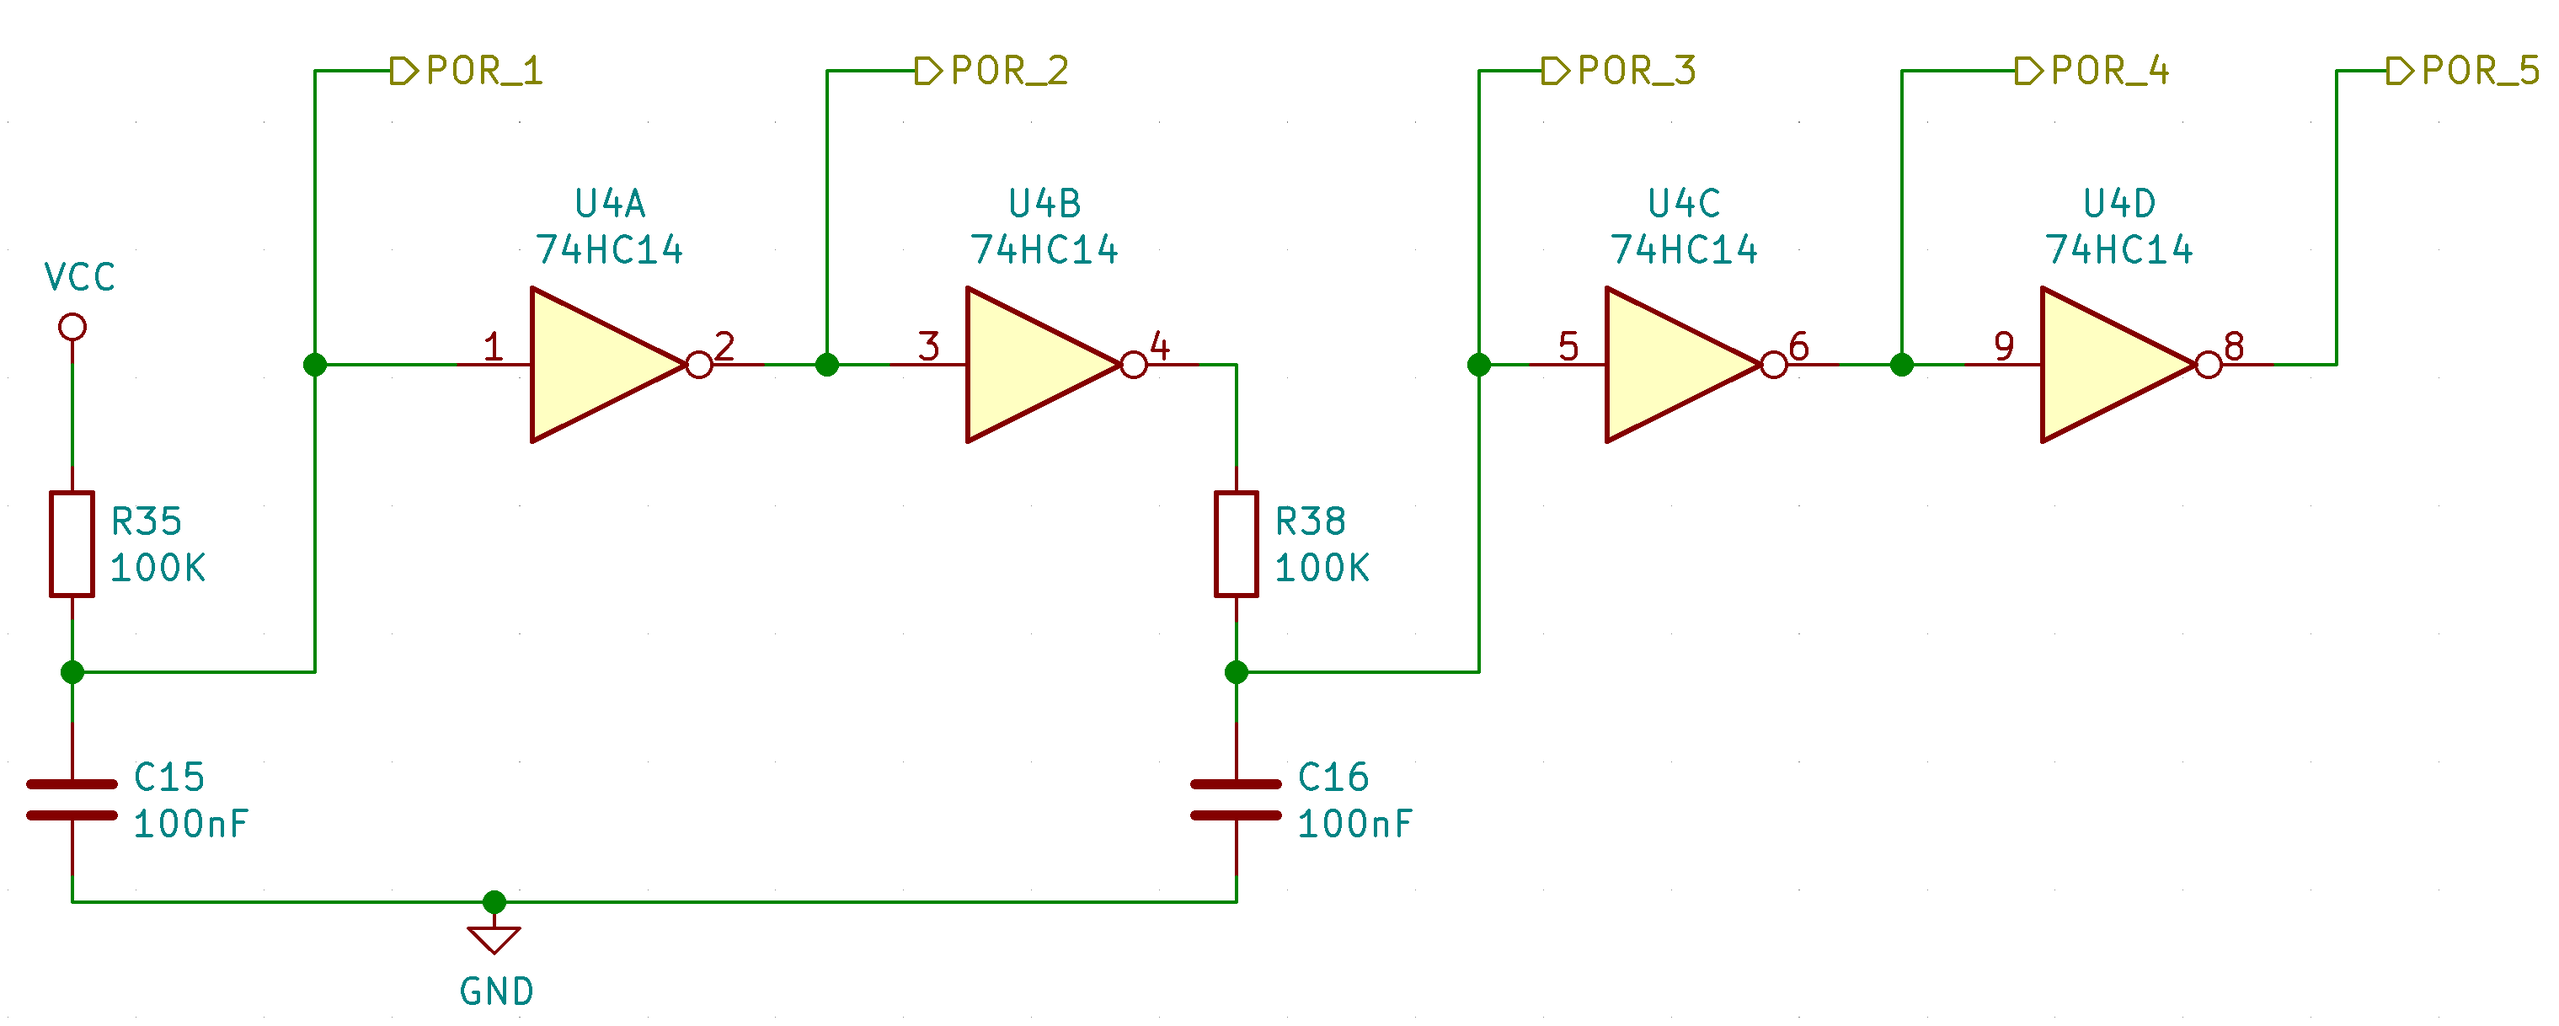
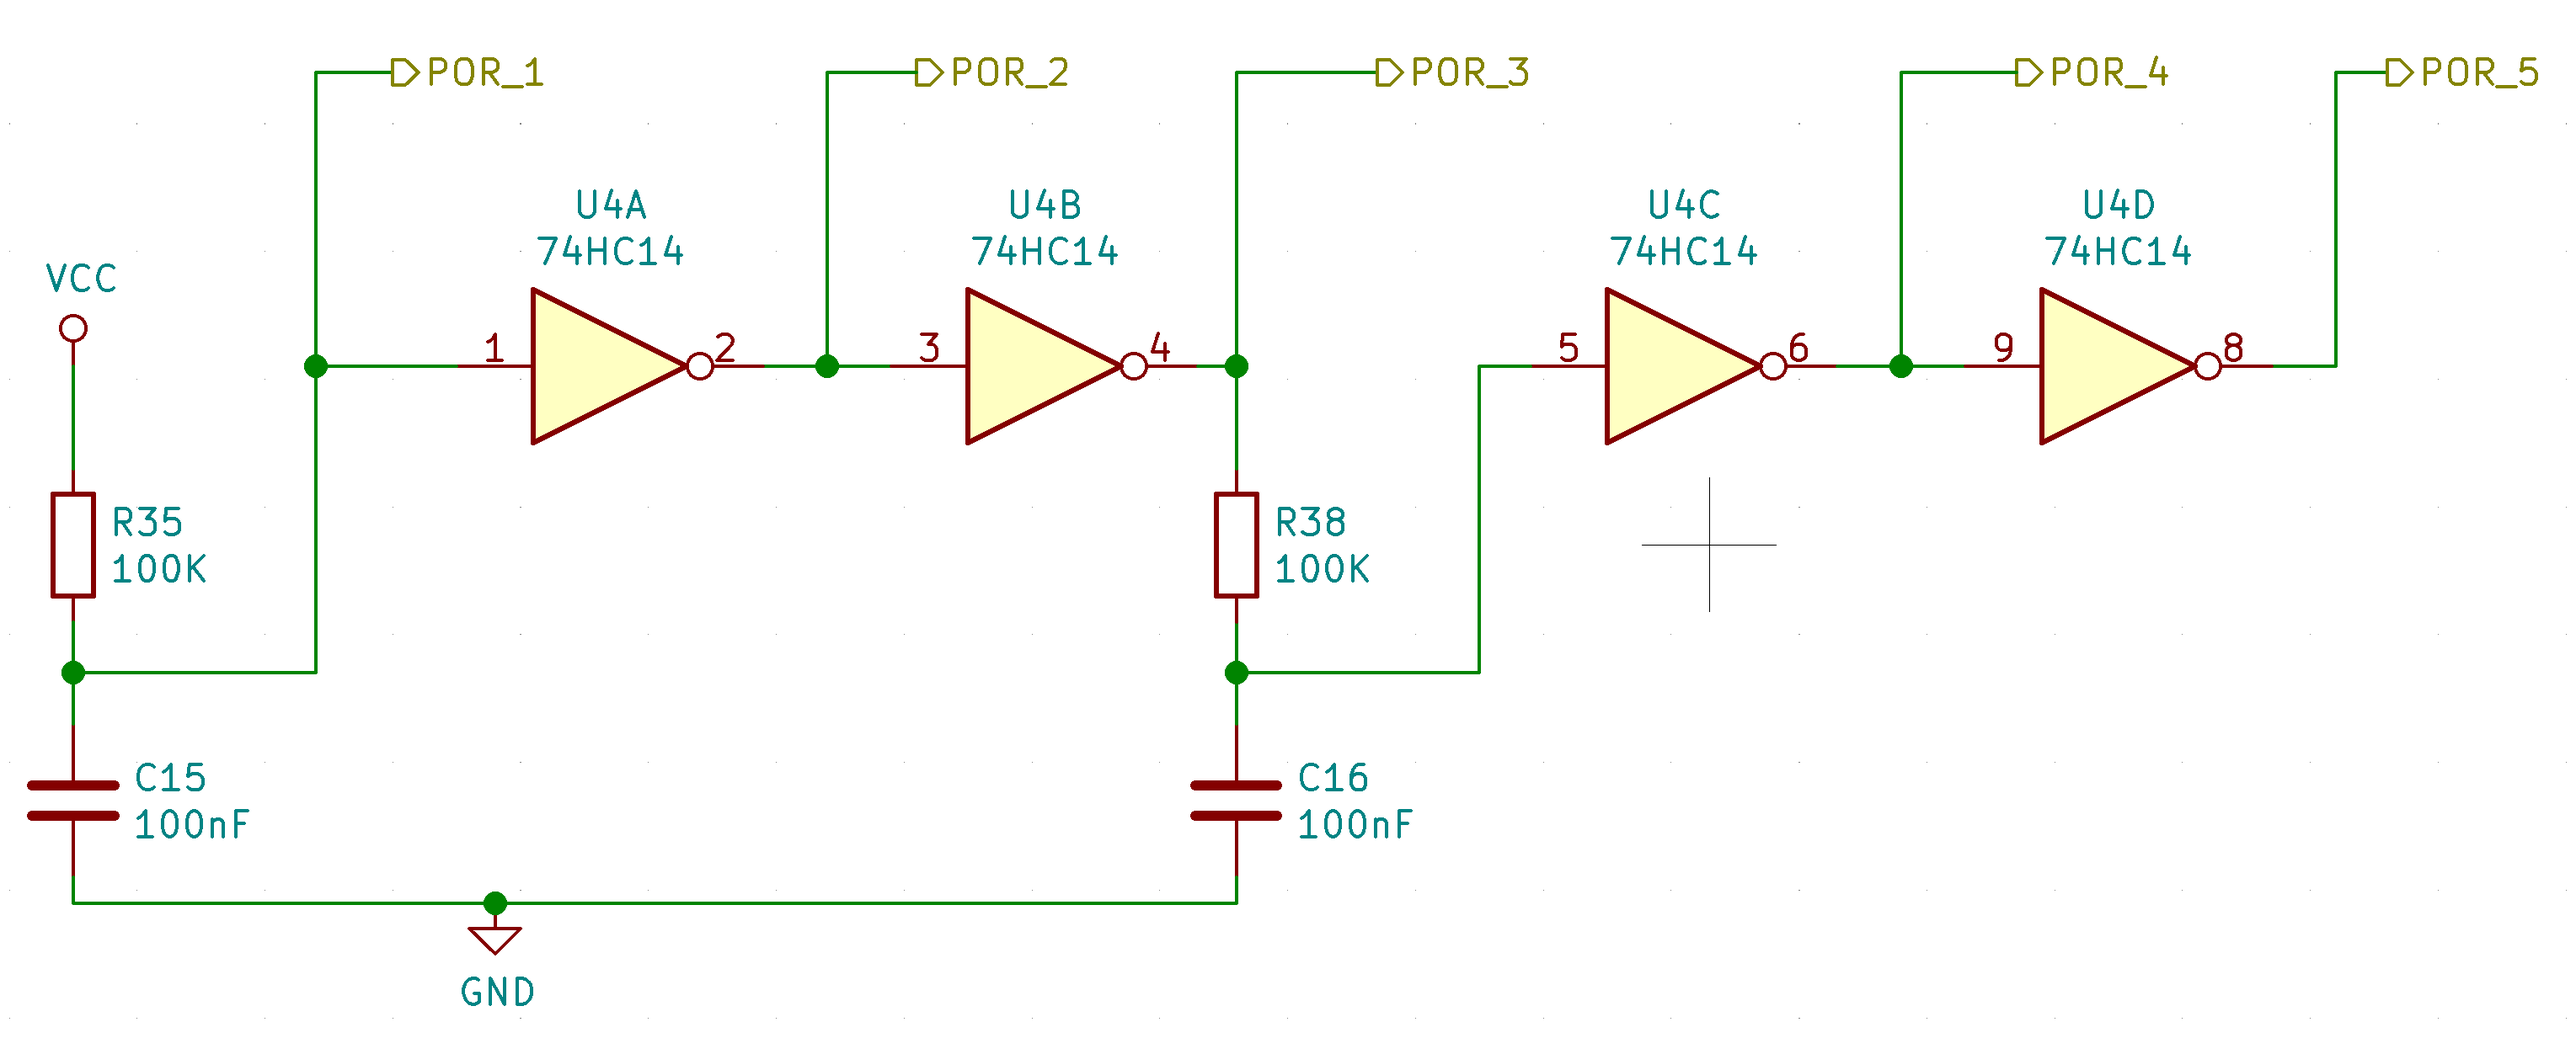
Scramble: Added more POR context.

diff --git a/scramble/index.md b/scramble/index.md
@@ -105,7 +105,7 @@ our game as random data might spawn on the player's location, instantly causing
 a crash.
 
 To avoid this we need to make sure all shift registers boot up empty and since
-the only way to clear a 595 shift register is to bring its `SR_CLR` line low and
+the only way to clear a 595 shift register is to bring its `SRCLR` line low and
 then clocking its latch input `SRCLK`, we need to build a little multi-step
 circuit that runs only on startup.
 
@@ -113,9 +113,38 @@ Not sure how this type of thing is typically done, I decided to add a
 resistor-capacitor that starts charging on startup, rising its voltage until it
 triggers a
 [schmitt-trigger inverter](https://assets.nexperia.com/documents/data-sheet/74HC_HCT14.pdf)
-to flip, providing a digital signal delayed by about 5 milliseconds after
+to flip, providing a digital signal delayed by about 2.5 milliseconds after
 startup.
 
-![](por_schematic.png)
+![Power on Reset](por_schematic.png)
 
-By daisy chaining several of these 
+By daisy chaining several of these we get 5 output lines that exhibit the
+following delayed characteristics:
+
+![Power on Reset Logic](por_pulseview.png)
+
+Note that the voltage on the first line rises gradually instead of sharply,
+which is not a digital signal, confusing the logic analyser.
+
+We connect the shift registers' `SRCLR` line to line `POR_5` so we have about
+7ms after startup to deliver a pulse to `SRCLK` and clear out the register's
+initial random data.
+
+We also connect `POR_5` to the display driver's line decoders' `G1` pins to
+disable their outputs during these initial 6ms. This way none of the shift
+registers or display cathode drains activate, keeping the display dark.
+
+We AND `POR_3` and `POR_4` to create a single low-high-low pulse from ~2.5 to
+~7ms after startup to flush the contents.
+This one-time pulse can be OR'd with the regular clock signal driving the shift
+registers' `SRCLK` inputs during the marquee cycle.
+
+![](por_clk.png)
+
+
+## Die and Restart
+
+The game now starts up cleanly with an empty screen as the parcourse scrolls in
+from the right and we need a mechanism to freeze the game when you collide with
+the environment.
+
